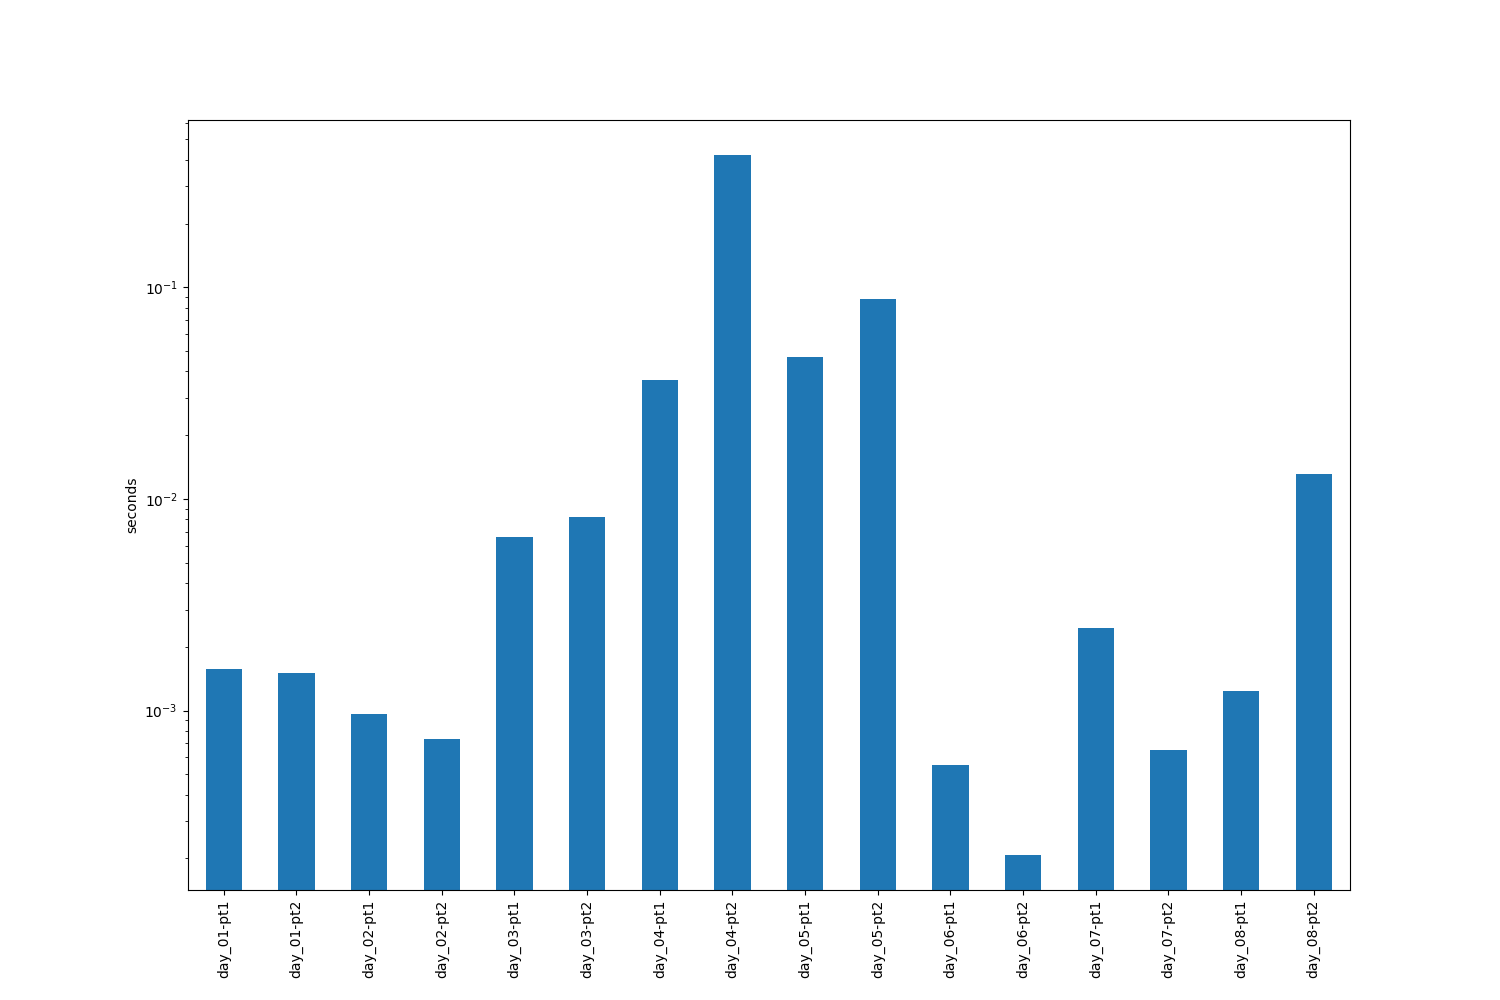
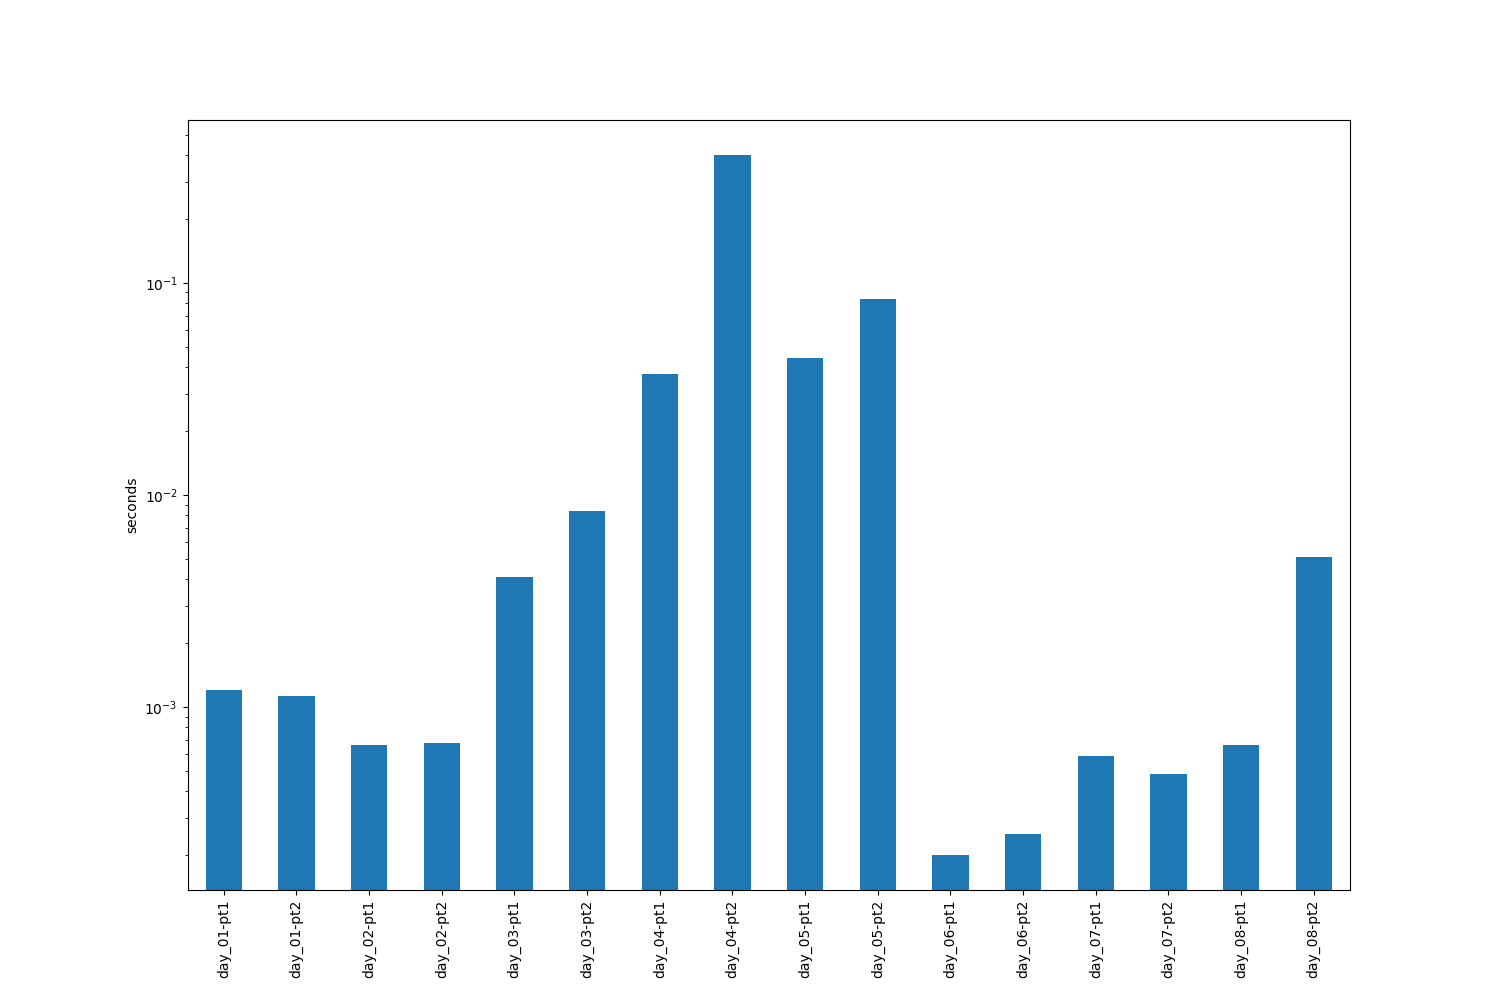
day_08

diff --git a/aoc/day_08.py b/aoc/day_08.py
@@ -1,43 +1,31 @@
-import json
-from os import P_NOWAITO, remove
+from collections import Counter
 
-letter_length_to_number = {
-    2:[1],
-    3:[7],
-    4:[4],
-    5:[2,3,5],
-    6:[0,6,9],
-    7:[8]
+letter_length_to_number = {2: [1], 3: [7], 4: [4], 5: [2, 3, 5], 6: [0, 6, 9], 7: [8]}
+
+position_to_number = {
+    "abcefg": 0,
+    "cf": 1,
+    "acdeg": 2,
+    "acdfg": 3,
+    "bcdf": 4,
+    "abdfg": 5,
+    "abdefg": 6,
+    "acf": 7,
+    "abcdefg": 8,
+    "abcdfg": 9,
 }
 
-number_to_position = {
-    0:"abcefg",
-    1:"cf",
-    2:"acdeg",
-    3:"acdfg",
-    4:"bcdf",
-    5:"abdfg",
-    6:"abdefg",
-    7:"acf",
-    8:"abcdefg",
-    9:"abcdfg"
-}
 
-position_to_number = {value: key for key, value in number_to_position.items()}
-
-number_to_position = {key: set(value) for key, value in number_to_position.items()}
-
-number_to_antiposition = {key: set("abcdefg") - value for key, value in number_to_position.items()}
-
-
-def part_one(file_path: str):
-    """[summary]
+def part_one(file_path: str) -> int:
+    """
+    counts the number of patterns in the output that
+    have 2,3,4 or 7 liens
 
     Args:
-        file_path (str): [description]
+        file_path (str):
 
     Returns:
-        [type]: [description]
+        int: the number of patterns in the output that have 2,3,4 or 7 liens
     """
     # read file
     with open(file_path) as f:
@@ -46,27 +34,27 @@ def part_one(file_path: str):
     count = 0
 
     for line in lines:
-        patterns, output = tuple(map(lambda x: x.split(" ") ,line.strip().split(" | ")))
+        _, output = tuple(map(lambda x: x.split(" "), line.strip().split(" | ")))
 
         for character in output:
 
-            if len(character) in [2,3,4,7]:
+            if len(character) in [2, 3, 4, 7]:
 
                 count += 1
 
     return count
 
 
-def part_two(file_path: str):
-    """[summary]
+def part_two(file_path: str) -> int:
+    """
+    calculates sum of decrypted output
 
     Args:
-        file_path (str): [description]
+        file_path (str):
 
     Returns:
-        [type]: [description]
+        int: sum of decrypted output
     """
-
 
     # read file
     with open(file_path) as f:
@@ -74,63 +62,103 @@ def part_two(file_path: str):
 
     sum1 = 0
     for line in lines:
-        patterns, outputs = tuple(map(lambda x: x.split(" ") ,line.strip().split(" | ")))
-
-        # initially every letter can map to every other letter
-        letters_dict = {letter: set("abcdefg") for letter in "abcdefg"}
-
+        patterns, outputs = tuple(
+            map(lambda x: x.split(" "), line.strip().split(" | "))
+        )
         # for each pattern
         mapping = get_mapping(patterns)
-
-        rev_mapping = {value: key for key, value in mapping.items()}
 
         init_str = ""
         for output in outputs:
 
-            init_str += str(position_to_number["".join(sorted([rev_mapping[letter] for letter in output]))])
+            init_str += str(
+                position_to_number[
+                    "".join(sorted([mapping[letter] for letter in output]))
+                ]
+            )
 
         sum1 += int(init_str)
 
     return sum1
 
-def get_mapping(patterns):
 
-    # initially every letter can map to every other letter
-    letters_dict = {letter: set("abcdefg") for letter in "abcdefg"}
+def get_mapping(patterns: list) -> dict:
+    """
+    decrypts patterns using following logic
+    we know if there are 4 of any character then it represents e
+    we know if there are 6 of any character then it represents b
+    we know if there are 9 of any character then it represents f
 
-    # for each pattern
-    for pattern in patterns:
-        # get the length to work out which possible numbers the pattern could be
-        letter_length = len(pattern)
-        pattern = set(pattern)
+    we know that the difference between pattern of length 2 and
+    length 3, represents a
 
-        must_positions = set("abcdefg")
-        must_not_positions = set("abcdefg")
-        for number in letter_length_to_number[letter_length]:
-            must_positions = must_positions.intersection(number_to_position[number])
-            must_not_positions = must_not_positions.intersection(number_to_antiposition[number])
+    then we can deduce the other is c
 
-        for letter in must_positions:
-            letters_dict[letter] = letters_dict[letter].intersection(pattern)
+    for the last pair, we now know abce and f so we can find the pattern
+    with 6 lines with only one extra uncoded element. This is from the
+    pattern representing 0 and hence that uncoded element is g
 
-        for letter in must_not_positions:
-            letters_dict[letter] = letters_dict[letter] - pattern
+    that leaves only d remaining for the final element
 
-    for key1, value1 in letters_dict.items():
+    Args:
+        patterns (list): list of patterns
 
-        if len(value1) == 1:
+    Returns:
+        dict: mapping of code to position
+    """
 
-            value1 = value1.pop()
-            letters_dict[key1] = set(value1)
+    count_map = {4: set("e"), 6: set("b"), 7: set("dg"), 8: set("ac"), 9: set("f")}
 
-            for key2, value2 in letters_dict.items():
+    # maps code to position
+    map_dict = {
+        key: count_map[value] for key, value in Counter("".join(patterns)).items()
+    }
 
-                if key1!=key2 and value1 in value2:
+    p2, p3, p6s = get_length_splits(get_length_splits)
 
-                    value2.remove(value1)
+    # difference between 2 and 3 maps to a
+    map_dict[(p3 - p2).pop()] = set("a")
 
-    
-    return {key: value.pop()  for key, value in letters_dict.items()}
+    # the other option with "a" can remove that option
+    for key, value in map_dict.items():
+        if len(value) == 2 and "a" in value:
+            value.remove("a")
+            map_dict[key] = value
+            break
+
+    # get list of ones with length 6
+    # 0 will have one of the unconfirmed elements which corresponds to g
+    # the remaining will correspond to d
+    confirmed = set(
+        [next(iter(key)) for key, value in map_dict.items() if len(value) == 1]
+    )
+
+    for p6 in p6s:
+        diff = p6 - confirmed
+        if len(diff) == 1:
+            map_dict[diff.pop()] = set("g")
+            break
+
+    for key, value in map_dict.items():
+        if len(value) == 2:
+            map_dict[key] = "d"
+        else:
+            map_dict[key] = value.pop()
+
+    return map_dict
+
+
+def get_length_splits(patterns):
+    p6s = []
+    for p in patterns:
+        if len(p) == 2:
+            p2 = set(p)
+        elif len(p) == 3:
+            p3 = set(p)
+        elif len(p) == 6:
+            p6s += [set(p)]
+
+    return p2, p3, p6s
 
 
 if __name__ == "__main__":

diff --git a/tests/test_day_08.py b/tests/test_day_08.py
@@ -1,4 +1,5 @@
-from aoc.day_08 import part_one, part_two,get_mapping
+from aoc.day_08 import part_one, part_two, get_mapping
+
 
 def test_part_one():
 
@@ -6,30 +7,22 @@ def test_part_one():
 
     assert part_one(test_file_path) == 26
 
+
 def test_part_two():
 
     test_file_path = "tests/test_inputs/test_day_08.txt"
 
     assert part_two(test_file_path) == 61229
 
+
 def test_get_mapping():
 
-    test_file_path = "tests/test_inputs/test_day_08.txt"
+    expected = {"a": "c", "b": "f", "c": "g", "d": "a", "e": "b", "f": "d", "g": "e"}
 
-    with open(test_file_path) as f:
-        lines = f.readlines()
+    line = "acedgfb cdfbe gcdfa fbcad dab cefabd cdfgeb eafb cagedb ab \
+    | cdfeb fcadb cdfeb cdbaf"
+    patterns, output = tuple(map(lambda x: x.split(" "), line.strip().split(" | ")))
 
-    expected = {
-        "a":"d",
-        "b":"e",
-        "c":"a",
-        "d":"f",
-        "e":"g",
-        "f":"b",
-        "g":"c"
-    }
+    # assert get_mapping(patterns) == expected
 
-    line = "acedgfb cdfbe gcdfa fbcad dab cefabd cdfgeb eafb cagedb ab | cdfeb fcadb cdfeb cdbaf"
-    patterns, output = tuple(map(lambda x: x.split(" ") ,line.strip().split(" | ")))
-
-    assert get_mapping(patterns) == expected
+    assert expected == get_mapping(patterns)

diff --git a/benchmark.py b/benchmark.py
@@ -8,7 +8,7 @@ import pandas as pd
 import aoc
 
 
-def benchmark(func: callable, file_path: str, N=5) -> list:
+def benchmark(func: callable, file_path: str, N=10) -> list:
 
     return [time_function(func, file_path) for i in range(N)]
 
@@ -45,7 +45,7 @@ def run_benchmarks():
 
 def save_figure(df):
 
-    df.mean().plot(figsize=(15, 10), kind="bar")
+    df.median().plot(figsize=(15, 10), kind="bar")
     plt.xticks(ticks=range(len(df.columns)), labels=df.columns, rotation=90)
     plt.ylabel("seconds")
     plt.yscale("log")
